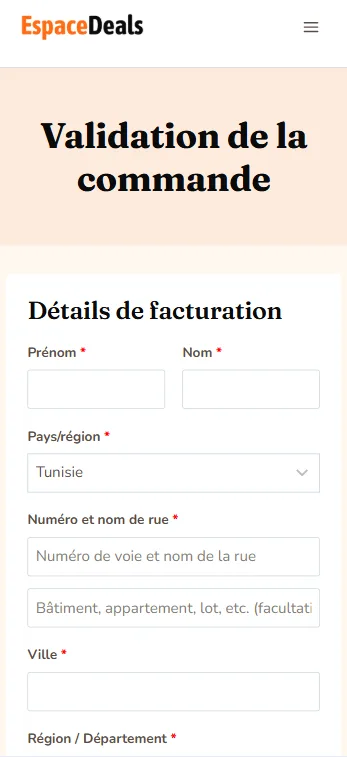
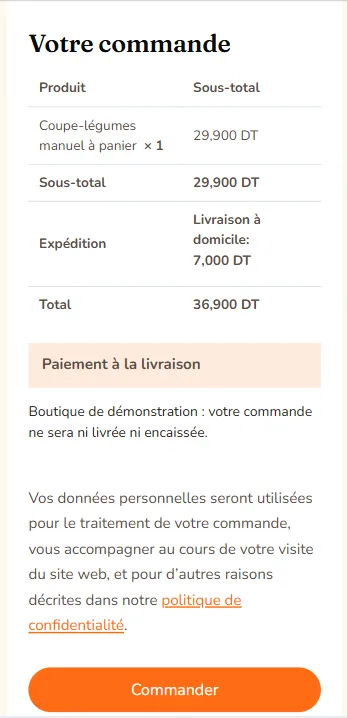
Espace Deals: show the payment step in the checkout phone
The capture now shows the order summary, where cash on delivery and the
7 DT delivery inside the 36,900 DT total are both visible, so the caption
matches the image.

Claude-Session: https://claude.ai/code/session_012NQxLcNxAQwBCW3cwadCXq

diff --git a/templates/espace-deals.html b/templates/espace-deals.html
@@ -310,7 +310,7 @@
 
         <div class="badges-shot">
           <proof-shot frame="phone"
-            src="/espacedeals/20-checkout-mobile.webp" width="347" height="757"
+            src="/espacedeals/20-checkout-mobile.webp" width="347" height="718"
             alt="{{s6-checkout-alt}}"
             caption="{{s6-checkout-caption}}"></proof-shot>
         </div>
